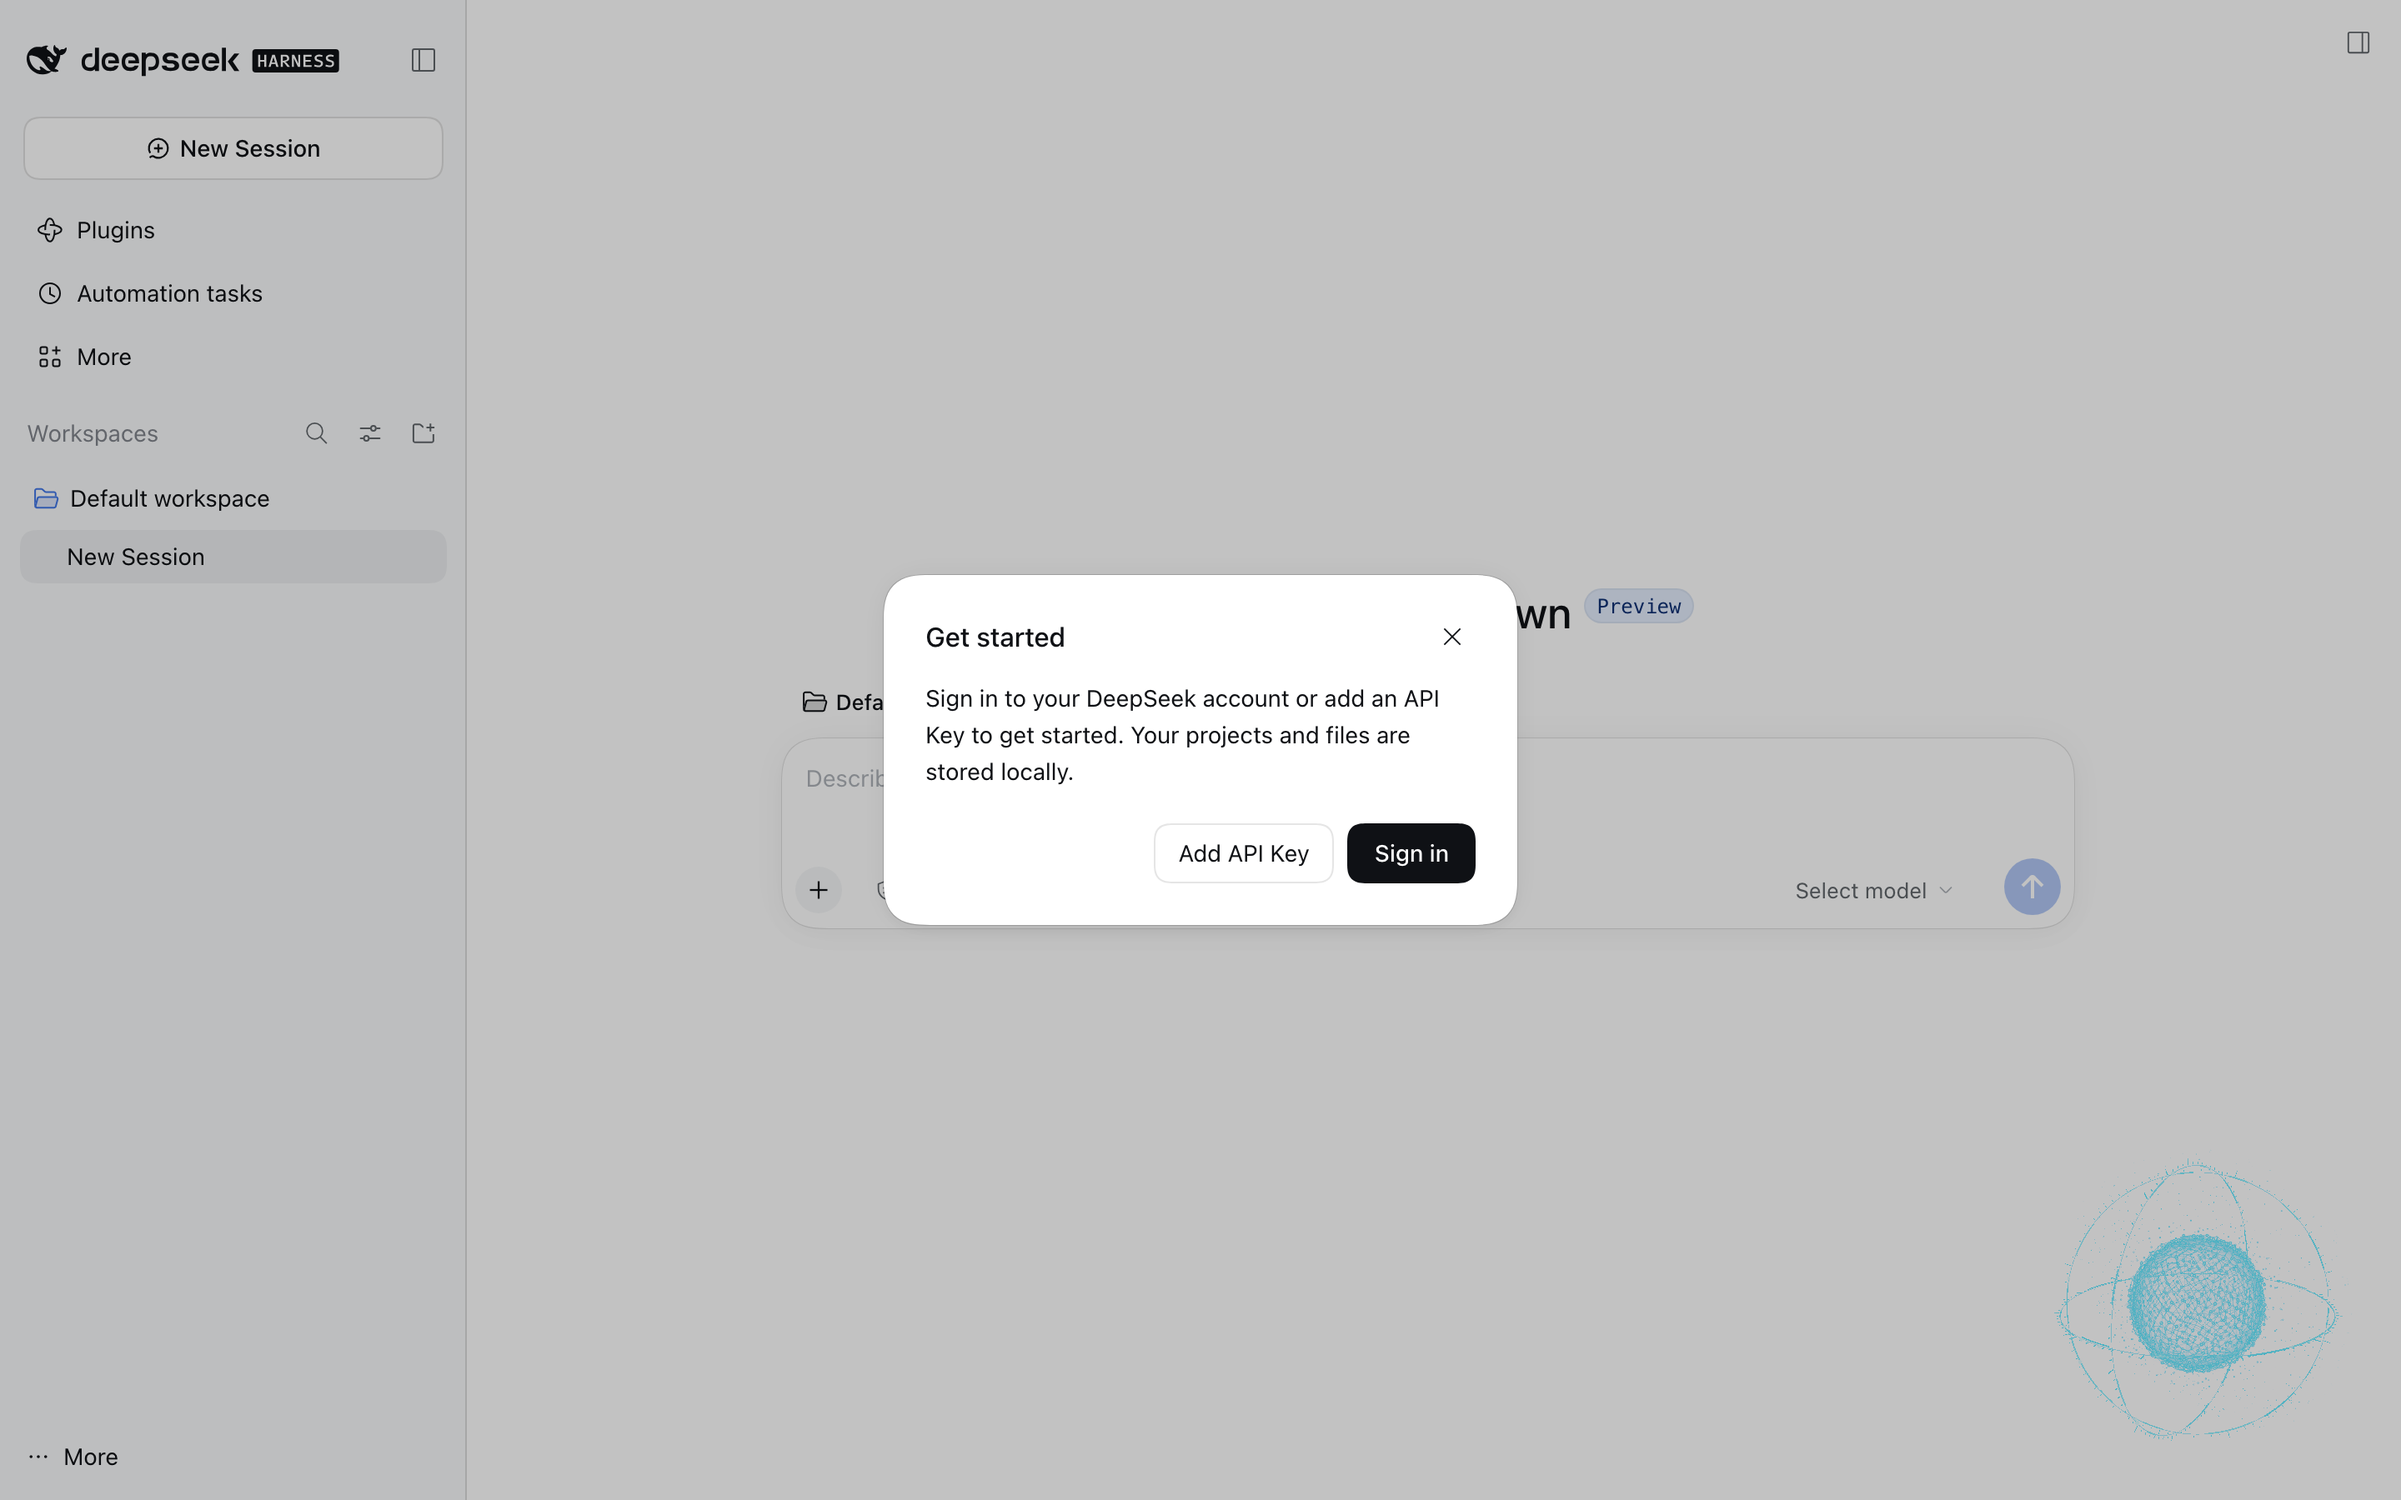
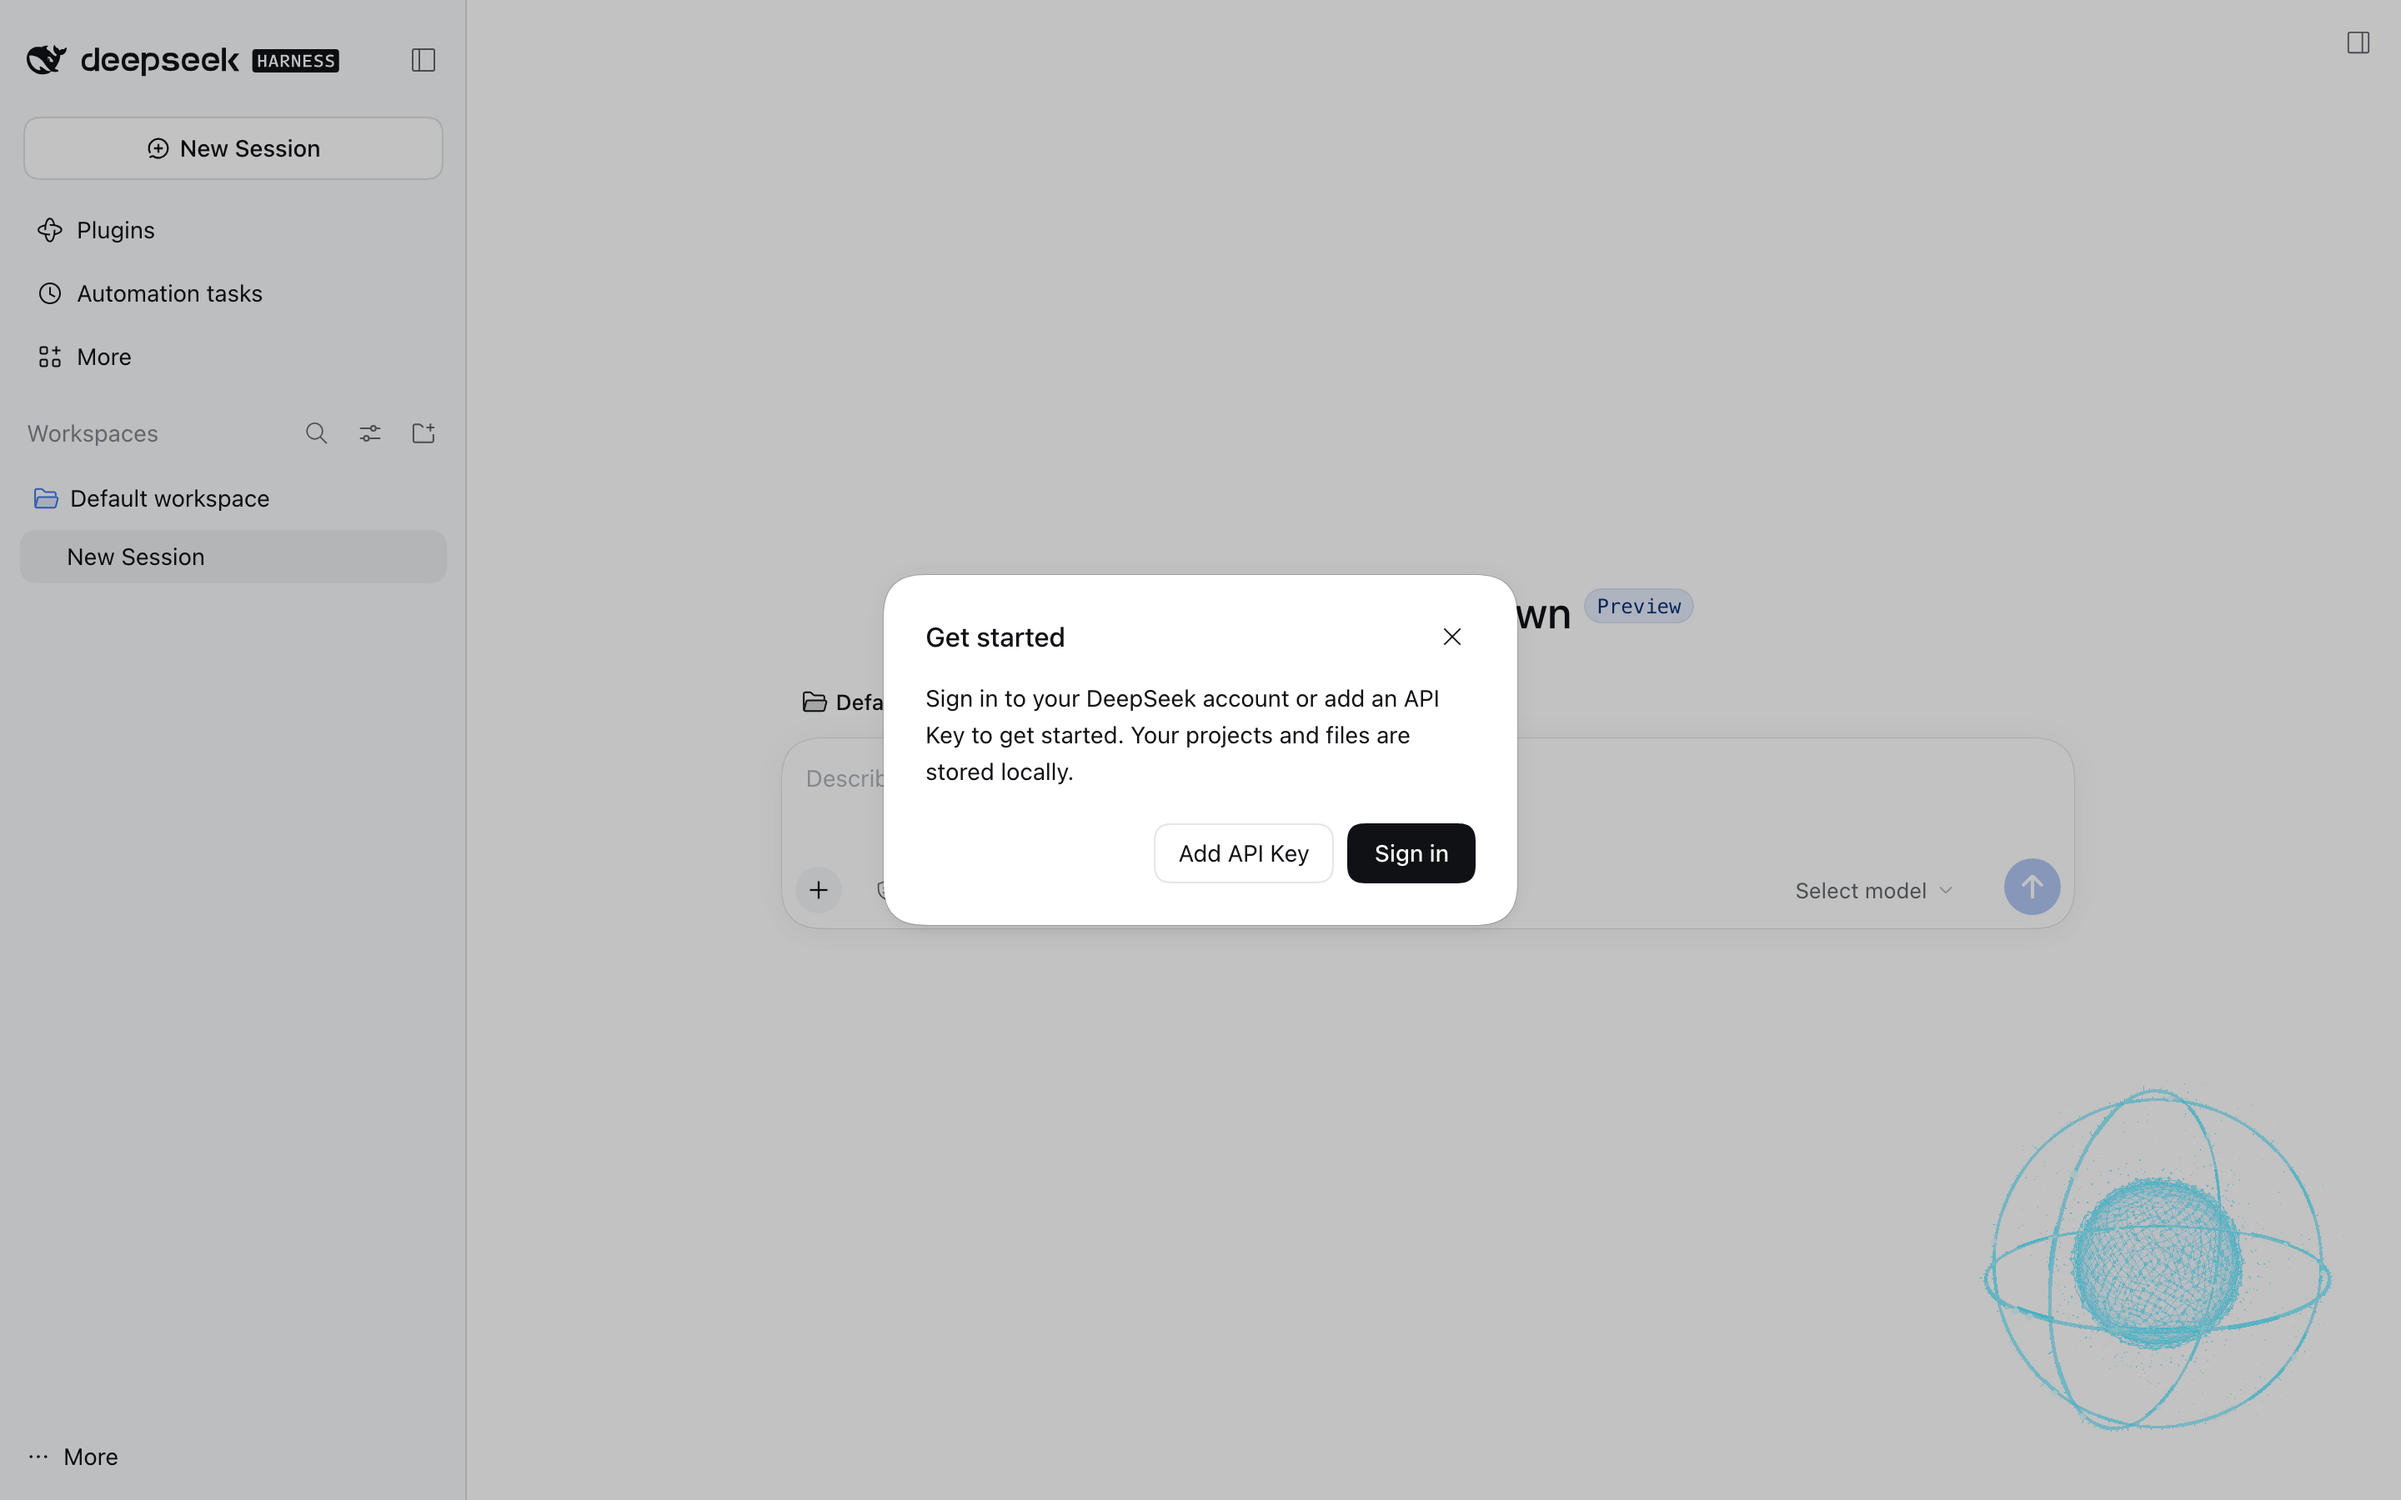
docs(readme): 用 0.1.2 的渲染重出 5 张效果图，并让「官方 UI 实拍」可复现
图片全部换成本轮定稿的视觉（环 0.025 / 亮点直径 4×环厚 / 默认 240×240 / 运行亮度 75%）：

- `hero.png` / `states.png` / `overlay.png`：`scripts/shoot-readme.mjs` 重出，
  同时把夹具里写死的旧口径改掉（meta 的 192 → 240；静息 rotationSpeed 0.55 → 0.825；
  激活 coreBrightness 1.3 → 0.975、energy 1 → 0.9、rotationSpeed 1 → 117.6；测试数 59 → 74）。
- `vanilla-ui*.png`：新增 `scripts/shoot-vanilla-ui.mjs` —— 一次性的 scratch home（仓库外 mkdtemp）
  从 npm 装当前版本 → `dsh web --port 0` 起临时实例 → Playwright 截 1440×900@2x → 收尾杀进程删目录。
  不写用户既有的 `~/.dsh`；顺带断言悬浮层宽度 = 240（视图 1.25× 之后的口径）。

README 正文同步：192 → 240（`size` 默认 120 → 240px、旧存档 `v:2` 迁移）、运行态亮度 75%、
环速 1.05×bpm（71→124 rev/min）、亮点 4×环厚；用法里补上新脚本的命令。

Changed region(s): [[0.8125, 0.7778, 0.9688, 0.9644], [0.875, 0.7156, 0.9062, 0.7467], [0.8438, 0.7467, 0.875, 0.7778]]

diff --git a/scripts/fixture/readme-states.html b/scripts/fixture/readme-states.html
@@ -27,16 +27,16 @@ import { createEnergySphere } from '/energy-orb/assets/sphere/energy-sphere.js';
 
 const IDLE = {
   color: '#42dcff', heartbeatEnabled: false, coreScale: 0.82, coreBrightness: 0.5,
-  energy: 0.55, rotationSpeed: 0.55, bpm: 56, paused: true,
+  energy: 0.55, rotationSpeed: 0.825, bpm: 56, paused: true,
 };
 const ACTIVE = {
-  color: '#42dcff', heartbeatEnabled: false, coreScale: 1.08, coreBrightness: 1.3,
-  energy: 1, rotationSpeed: 1, bpm: 112, paused: true,
+  color: '#42dcff', heartbeatEnabled: false, coreScale: 1.08, coreBrightness: 0.975,
+  energy: 0.9, rotationSpeed: 117.6, bpm: 112, paused: true,
 };
 const CASES = [
-  { id: 'idle', options: IDLE, title: '静息', detail: '心跳关闭 · 核心 0.82× · 辉光 0.5' },
-  { id: 'active', options: ACTIVE, title: '激活', detail: '核心 1.08× · 辉光 1.3 · 外环全速' },
-  { id: 'live', options: { ...ACTIVE, paused: false, heartbeatEnabled: true }, title: '使用中', detail: '双拍心跳 · 64→112 BPM' },
+  { id: 'idle', options: IDLE, title: '静息', detail: '心跳关闭 · 核心 0.82× · 辉光 0.5 · 环 0.9 rev/min' },
+  { id: 'active', options: ACTIVE, title: '激活', detail: '核心 1.08× · 辉光 0.975 · 环速 1.05×bpm' },
+  { id: 'live', options: { ...ACTIVE, paused: false, heartbeatEnabled: true }, title: '使用中', detail: '双拍心跳 · 64→112 BPM · 最快环 124 rev/min' },
 ];
 
 const strip = document.getElementById('strip');

diff --git a/scripts/fixture/overlay.html b/scripts/fixture/overlay.html
@@ -52,7 +52,7 @@
     <div class="fake-head">会话 · 能量球插件</div>
     <div class="fake-msg user"><span class="who">你</span>把 demo 集成进来，替换掉现在这颗球。</div>
     <div class="fake-msg"><span class="who">助手</span>已换成 vendored 的 energy-sphere：粒子核心 + 三圈机械环 + Bloom，静息时收缩、回合运行时双拍心跳。</div>
-    <div class="fake-code">node --test                          # 59 tests
+    <div class="fake-code">node --test                          # 74 tests
 node scripts/verify-host.mjs         # 12 项（真 cordis）
 node scripts/verify-visual.mjs       # 42 项（真 WebGL）</div>
     <div class="fake-msg"><span class="who">助手</span>宿主侧路由、资产与围栏都实测通过；右下角的球是装饰，不拦点击。</div>

diff --git a/scripts/fixture/readme-hero.html b/scripts/fixture/readme-hero.html
@@ -59,7 +59,7 @@
   </ul>
 </div>
 <div class="stage" id="stage"></div>
-<div class="meta">three.js · bloom · 192 × 192 overlay</div>
+<div class="meta">three.js · bloom · 240 × 240 overlay</div>
 <script type="module">
 import { createEnergySphere } from '/energy-orb/assets/sphere/energy-sphere.js';
 

diff --git a/README.md b/README.md
@@ -35,7 +35,7 @@
 
 ## 装在界面的哪里
 
-右侧留白、不挡内容 —— 默认 192 × 192 的悬浮层，贴在右下角（`shell.overlay`），可拖拽到任意角落。
+右侧留白、不挡内容 —— 默认 240 × 240 的悬浮层（视图等比放大 1.25× 之后），贴在右下角（`shell.overlay`），可拖拽到任意角落。
 **官方 UI 实拍**（纯净 DSH Web GUI，未加载任何皮肤）：
 
 <p align="center">
@@ -72,7 +72,7 @@ dsh plugin --profile=<你的 profile> add link:/绝对路径/dsh-plugins/dsh-ene
 | 项 | 位置 | 说明 |
 | --- | --- | --- |
 | `enabled` | cordis Config | 唯一配置项，默认 `true`；关掉等于不挂载 |
-| `visible` / `size` / `anchor` / `offset` | 浏览器 localStorage，键 `energy-orb.display` | 显隐、直径（`size` 32–256，默认 96 → 192px）、贴哪一角、拖拽偏移 |
+| `visible` / `size` / `anchor` / `offset` | 浏览器 localStorage，键 `energy-orb.display` | 显隐、直径（`size` 32–256，默认 120 → 240px；旧存档按 `v:2` 自动 ×1.25 迁移一次）、贴哪一角、拖拽偏移 |
 
 没有别的配置面：状态来自 Harness 的会话事件，不来自配置。
 
@@ -116,7 +116,9 @@ node scripts/verify-host.mjs               # 宿主级集成：真 cordis + 真 
 node scripts/verify-visual.mjs             # 浏览器 probe：真资产路由 + 真 WebGL 像素（42 项；产物落 .tmp/，加 --save 写回 docs/verify/）
 node scripts/verify-live.mjs --self-test   # live 检查脚本自证
 node scripts/vendor-sphere.mjs --check     # vendored 资产与上游 demo 是否一致
-node scripts/shoot-readme.mjs              # 重出 README 效果图（docs/images/*.png）
+node scripts/shoot-readme.mjs              # 重出 hero/states/overlay（夹具，DPR1）
+DSH_BIN=../dsh-fly/node_modules/.bin/dsh \
+  node scripts/shoot-vanilla-ui.mjs        # 重出「官方 UI 实拍」两张（scratch home + npm 版 + 真 dsh web）
 ```
 
 本仓同时被 `dsh-fly` 的 [`plugins.lock.json`](https://github.com/ethanchen669/dsh-fly/blob/main/plugins.lock.json) 登记为外部插件：
